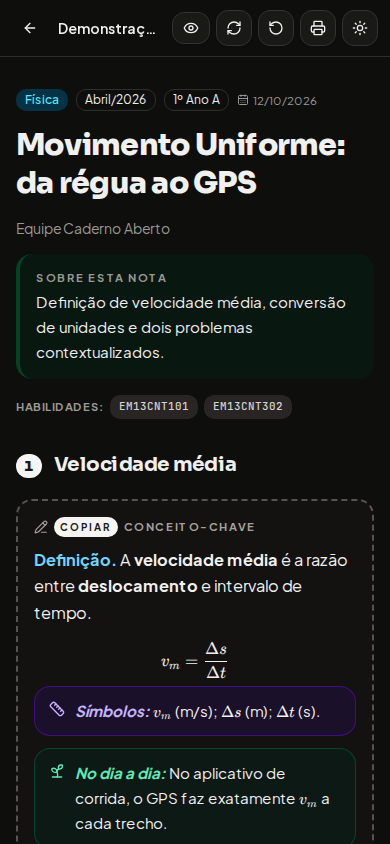
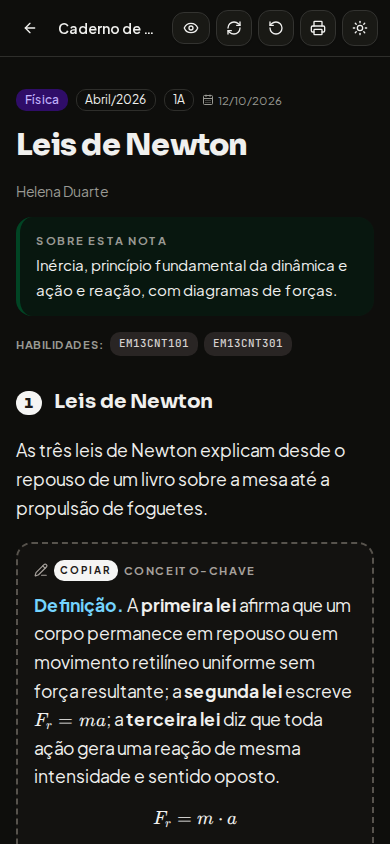
feat(capturas): gera as imagens do README com dados
Assisted-by: opencode:deepseek-v4.1-flash

diff --git a/e2e/imagens.spec.ts b/e2e/imagens.spec.ts
@@ -1,39 +1,94 @@
-// Capturas do README: gera as imagens de docs/imagens com massa sintética e sem dados reais.
+// Capturas do README: gera as imagens de docs/imagens a partir da semente de desenvolvimento.
+// Pré-requisito: banco migrado e `pnpm run seed` aplicado (a massa vem de scripts/seed.mjs).
 import { mkdir } from "node:fs/promises";
 import path from "node:path";
 import { expect, test, type Page } from "@playwright/test";
-import { criarContaEentrar } from "./helpers/auth";
 
 const pastaImagens = path.resolve(process.cwd(), "docs/imagens");
 
-async function criarNotaDeExemplo(page: Page) {
-  await page.goto("/#/notas");
-  const botaoNova = page.getByRole("button", { name: /Nova nota/i }).first();
-  if (await botaoNova.isVisible()) await botaoNova.click();
-  await page.getByLabel("Título da aula").fill("Equilíbrio químico no cotidiano");
-  await page.getByRole("button", { name: "+ Nova disciplina" }).click();
-  await page.getByPlaceholder("Nome da disciplina").fill("Química");
-  await page.getByRole("button", { name: "Criar e selecionar" }).click();
-  await expect(page.getByText("Disciplina criada")).toBeVisible({ timeout: 8000 });
-  await page.getByRole("button", { name: "Criar nota" }).click();
-  await expect(page).toHaveURL(/#\/editor\//, { timeout: 10000 });
-  await expect(page.getByRole("textbox", { name: "Título da nota" })).toBeVisible({
-    timeout: 10000,
+// Valores definidos em scripts/seed.mjs e scripts/seed-dados.mjs.
+const PROFESSOR_SEMENTE = { email: "helena.duarte@exemplo.br", senha: "semente123" };
+const NOTA_DESTAQUE = "Leis de Newton";
+const TOKEN_ALUNO = "semente-nota-leis-de-newton";
+const NOME_LINK_TURMA = "Turma 1A";
+
+const ORIENTACAO_SEMENTE =
+  "Massa da semente ausente. Rode pnpm run seed com o banco migrado e o aplicativo no ar.";
+
+/** Entra com a professora da semente via API e falha com orientação clara se a massa faltar. */
+async function entrarSemente(page: Page) {
+  // O login pela interface depende da hidratação do formulário; a captura só
+  // precisa da sessão, então a API evita a corrida do clique antes do React.
+  const resposta = await page.request.post("/api/auth/entrar", {
+    data: { email: PROFESSOR_SEMENTE.email, senha: PROFESSOR_SEMENTE.senha },
   });
-  await page
-    .getByText("Nota criada")
-    .waitFor({ state: "hidden", timeout: 8000 })
-    .catch(() => {});
+  if (!resposta.ok()) {
+    throw new Error(`${ORIENTACAO_SEMENTE} O login respondeu ${resposta.status()}.`);
+  }
+  await page.goto("/");
+  await expect(page.getByLabel("E-mail")).toHaveCount(0);
+}
+
+/** Descobre o id de uma nota semeada pelo título. */
+async function idDaNotaSemeada(page: Page, titulo: string): Promise<string> {
+  const resposta = await page.request.get("/api/notas");
+  const corpo = resposta.ok() ? await resposta.json() : null;
+  const nota = (corpo?.notas ?? []).find((item: { titulo?: string }) => item.titulo === titulo);
+  if (!nota?.id) {
+    throw new Error(`${ORIENTACAO_SEMENTE} Nota esperada: ${titulo}.`);
+  }
+  return nota.id as string;
 }
 
 test.describe("Capturas do README", () => {
-  test("editor de blocos no desktop, claro e escuro", async ({ page, browserName }) => {
+  test.beforeEach(({ browserName }) => {
     test.skip(browserName !== "chromium", "Capturas apenas no Chromium.");
+  });
+
+  test("lista de Notas no desktop", async ({ page }) => {
     await mkdir(pastaImagens, { recursive: true });
     await page.setViewportSize({ width: 1440, height: 900 });
-    const email = `captura_${Date.now()}@exemplo.br`;
-    await criarContaEentrar(page, { nome: "Professora de Química", email, senha: "senha123" });
-    await criarNotaDeExemplo(page);
+    await entrarSemente(page);
+    await page.goto("/#/notas");
+    await expect(page.getByRole("heading", { name: "Notas", exact: true })).toBeVisible({
+      timeout: 10000,
+    });
+    await expect(page.locator("article").first()).toBeVisible({ timeout: 10000 });
+    await page.evaluate(() => document.fonts.ready);
+    await page.emulateMedia({ colorScheme: "light" });
+    await page.screenshot({
+      path: path.join(pastaImagens, "notas-desktop-claro.png"),
+      animations: "disabled",
+    });
+  });
+
+  test("lista de Links no desktop", async ({ page }) => {
+    await mkdir(pastaImagens, { recursive: true });
+    await page.setViewportSize({ width: 1440, height: 900 });
+    await entrarSemente(page);
+    await page.goto("/#/links");
+    await expect(page.getByRole("heading", { name: "Links para os alunos" })).toBeVisible({
+      timeout: 10000,
+    });
+    await expect(page.getByText(NOME_LINK_TURMA).first()).toBeVisible({ timeout: 10000 });
+    await page.evaluate(() => document.fonts.ready);
+    await page.emulateMedia({ colorScheme: "light" });
+    await page.screenshot({
+      path: path.join(pastaImagens, "links-desktop-claro.png"),
+      animations: "disabled",
+    });
+  });
+
+  test("editor de blocos no desktop, claro e escuro", async ({ page }) => {
+    await mkdir(pastaImagens, { recursive: true });
+    await page.setViewportSize({ width: 1440, height: 900 });
+    await entrarSemente(page);
+    const id = await idDaNotaSemeada(page, NOTA_DESTAQUE);
+    await page.goto(`/#/editor/${id}`);
+    await expect(page.getByLabel("Título da nota")).toHaveValue(NOTA_DESTAQUE, {
+      timeout: 15000,
+    });
+    await expect(page.locator("[data-bloco-id]").first()).toBeVisible({ timeout: 15000 });
     await page.evaluate(() => document.fonts.ready);
     await page.emulateMedia({ colorScheme: "light" });
     await page.screenshot({
@@ -48,12 +103,12 @@ test.describe("Capturas do README", () => {
     });
   });
 
-  test("vista do aluno no celular, claro e escuro", async ({ page, browserName }) => {
-    test.skip(browserName !== "chromium", "Capturas apenas no Chromium.");
+  test("vista do aluno no celular, claro e escuro", async ({ page }) => {
     await mkdir(pastaImagens, { recursive: true });
     await page.setViewportSize({ width: 390, height: 844 });
-    await page.goto("/l/demo-landing");
-    await expect(page.getByRole("heading", { level: 1 })).toContainText("Movimento Uniforme");
+    await page.goto(`/l/${TOKEN_ALUNO}`);
+    const titulo = page.getByRole("heading", { level: 1 });
+    await expect(titulo).toContainText(NOTA_DESTAQUE, { timeout: 15000 });
     await page.waitForTimeout(1000);
     await page.emulateMedia({ colorScheme: "light" });
     await page.screenshot({

diff --git a/tests/README.md b/tests/README.md
@@ -33,14 +33,15 @@ pnpm run capturas:readme     # capturas do README em docs/imagens
 
 ## Capturas do README
 
-As imagens do README ficam em `docs/imagens/` e são geradas por `e2e/imagens.spec.ts`, com o aplicativo no ar e o banco migrado:
+As imagens do README ficam em `docs/imagens/` e são geradas por `e2e/imagens.spec.ts`, com o aplicativo no ar, o banco migrado e a semente de desenvolvimento aplicada:
 
 ```bash
+pnpm run seed                    # cria a massa realista da semente
 pnpm run capturas:readme         # Playwright local
 pnpm run capturas:readme:docker  # imagem oficial, com o aplicativo no ar
 ```
 
-O spec cria a própria conta e a nota de exemplo, captura o editor em 1440x900 e a vista pública `/l/demo-landing` em 390x844, nos temas claro e escuro, sempre com massa sintética. Não edite os PNGs à mão: regenere pelo comando e revise o diff.
+O spec entra com o professor semeado, abre a nota `Leis de Newton` no editor e a vista pública `/l/semente-nota-leis-de-newton`, e captura a lista de Notas, a lista de Links e o editor em 1440x900 e a vista do aluno em 390x844, nos temas claro e escuro. Sem a massa, o spec falha com a orientação de rodar `pnpm run seed`. Não edite os PNGs à mão: regenere pelo comando e revise o diff.
 
 ## Limites de tentativas
 

diff --git a/CHANGELOG.md b/CHANGELOG.md
@@ -19,6 +19,7 @@ Enquanto a primeira versão pública não é lançada, a versão do projeto perm
 - README reestruturado no padrão de repositórios de referência, com selos, sumário, demonstração, arquitetura, deploy, FAQ, suporte e créditos.
 - Spec `e2e/imagens.spec.ts` e comandos `capturas:readme` para gerar as capturas versionadas em `docs/imagens/`.
 - Semente de desenvolvimento `pnpm run seed`, determinística e idempotente, com professores, disciplinas, turmas, notas realistas e links públicos.
+- Capturas do README geradas a partir da semente, com as telas de Notas e Links no desktop.
 - Catálogo de etiquetas em `.github/labels.json` e script `npm run etiquetas:sync` para sincronizá-las pelo GitHub CLI.
 - Workflow `etiquetas.yml`, que aplica etiquetas de área pelos caminhos e de tipo pelo título e valida título e etiquetas em pull requests.
 - Templates de issue ampliados (Bug, Melhoria e Tarefa) e template de pull request com etiquetas, commits atômicos, ciclo de rascunho e uso de IA.
